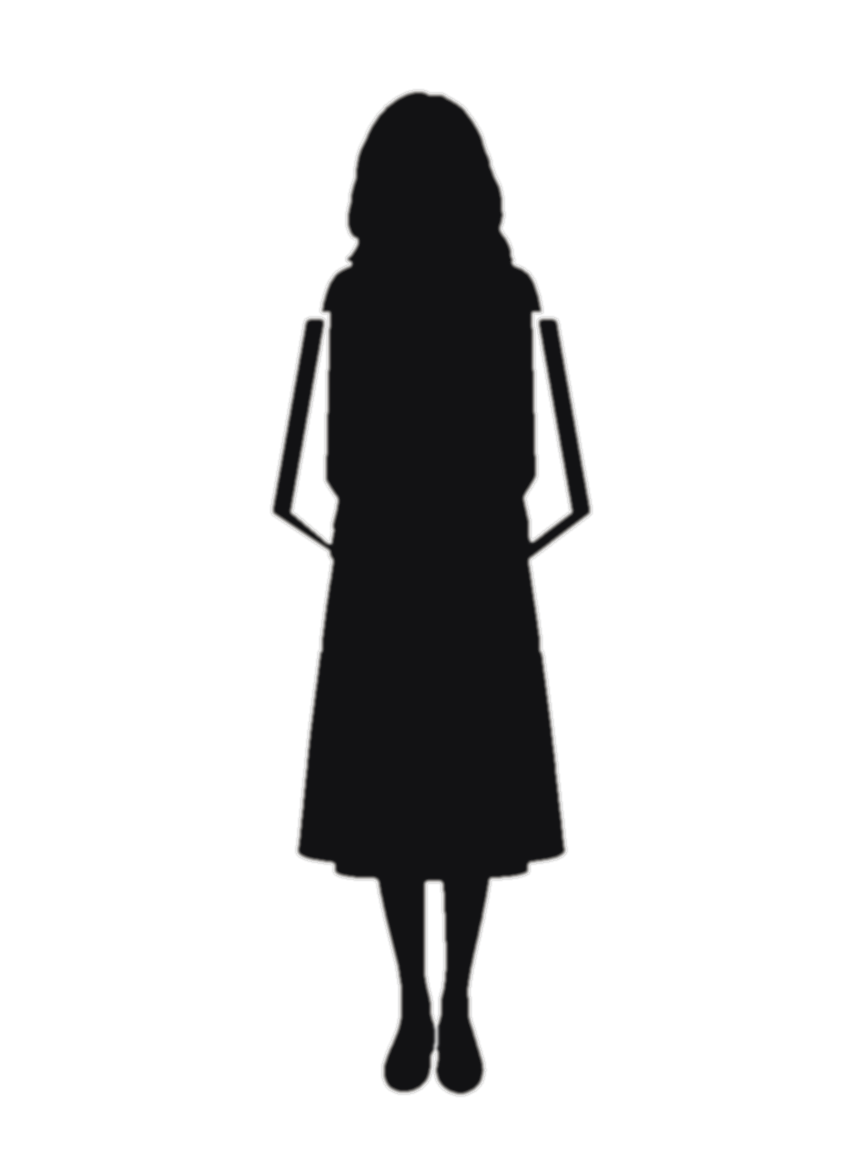
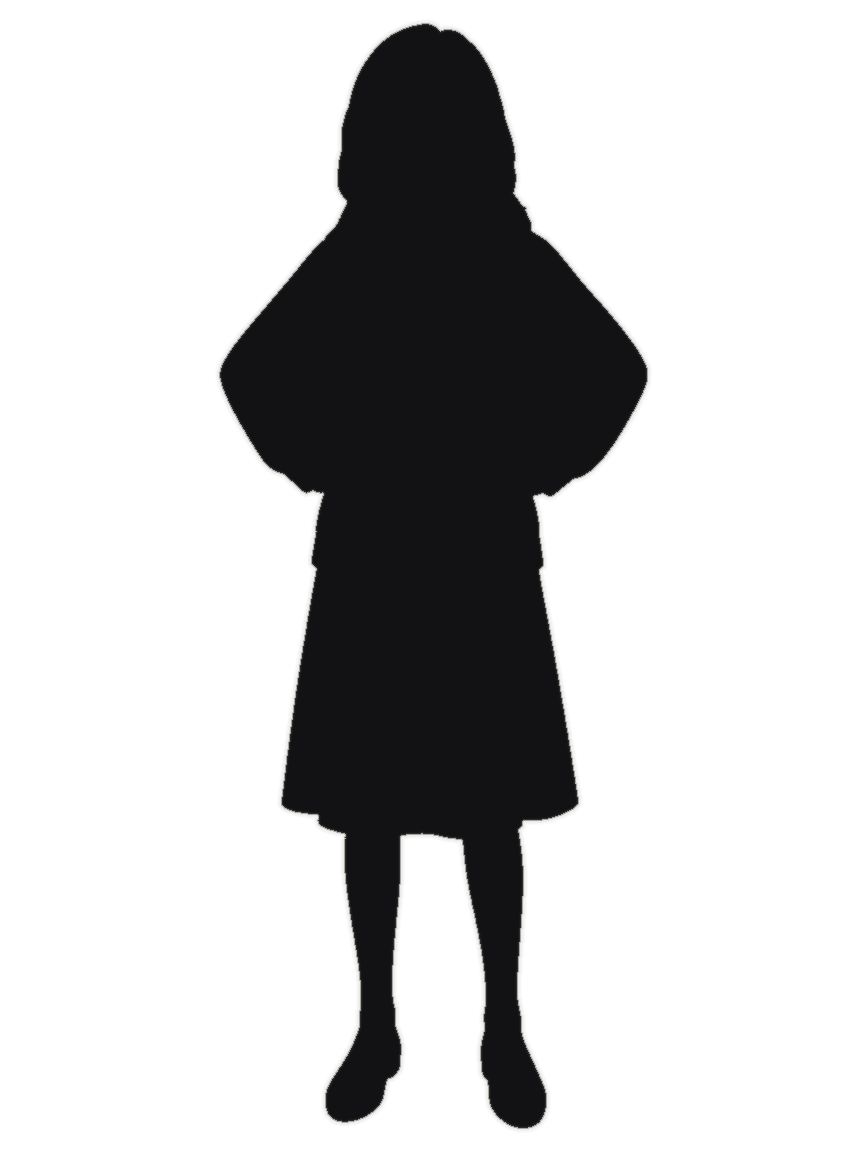
Soft: era sil shape Soft nit (#38)
Soft≠PASS · 唔 tip LIVE · 唔抬 ?v=/SAVE 仍 19w · 89–92 HOLD

PNG-only Soft tip: yip/so/luk/ngai silhouette_far Soft nit; liu/core/bust untouched.

Changed region(s): [[0.25, 0.0, 0.75, 1.0]]

diff --git a/assets/story/era_stars/MANIFEST.md b/assets/story/era_stars/MANIFEST.md
@@ -4,7 +4,7 @@
 > **Brief：** `content/ART_BRIEF_MVP_ERA_STARS_v1.md`  
 > **LOOKS：** `content/PLAN_CHAR_LOOKS_REF_v1.md` §C  
 > **Pipeline：** cursor **GenerateImage**（refs `hero_awi.jpg`＋`char_hero_bust_default.png`）→ Pillow cover-crop **864×1152** PNG  
-> **狀態：** **Soft tip 2026-11-05** — **luk leather v5b**＋**liu chow-vibe v10**＋**yip starlet-v3**＋**so jade-v4**＋**ngai kara-v5**（各 bust×3）。5 人 ×3 表情＝15 live bust。ngai kara-v2 已由 kara-v5 取代，唔再係 live。**Soft nits expr** 已換 so smile／luk smile／ngai×3（bak `bak_pre_soft_nits_expr_20261105/` 唔入本 PR）。**so energy Soft nit** 已換 default＋smile（frown 未動；bak 唔入本 PR）。**ngai age Soft nit** 已換×3（kara-v5 低馬尾＋navy zip 鎖；bak 唔入本 PR）。**silhouettes v2** 5／5 `*_silhouette_far.png` 已入 Soft（bak 唔入本 PR）。**sil Soft polish×3** 已換 yip／so／luk `*_silhouette_far.png`（liu sil 未動；ngai sil 當時未動；bak `bak_pre_silhouette_soft_polish_20261105/` 唔入本 PR）。**ngai zip sil Soft nit** 已換 `ngai_wingnaam_silhouette_far.png`（高領 zip／低馬尾／理領；bak `bak_pre_ngai_zip_sil_soft_nit_20261105/` 唔入本 PR）。**yip／liu smile↔default Soft nit** 已換 yip／liu bust default＋smile（yip frown 未動；bak `bak_pre_yip_liu_smile_default_soft_nit_20261105/` 唔入本 PR）。**liu frown Soft nit** 已換 `liu_bingxing_bust_frown.png`（舊 `11582108`；bak `bak_pre_liu_frown_soft_nit_20261105/` 唔入本 PR）。**yip energy Soft nit** 已換 `yip_manji` bust default＋smile（frown `9d7e2b8e` 未動；bak `bak_pre_yip_energy_soft_nit_20261105/` 唔入本 PR）。**so／yip frown Soft nit** 已換 `so_jiyan_bust_frown.png`（MD5 `dbe0ce32`；舊 `f0c0347e`）＋`yip_manji_bust_frown.png`（MD5 `d50275e8`；舊 `9d7e2b8e`；default／smile 未動；bak `bak_pre_so_yip_frown_soft_nit_20261105/` 唔入本 PR）。**yip wink Soft nit** 已換 `yip_manji` bust default＋smile（MD5 `fe28eb9b`／`86a75894`；舊 energy Soft tip `08384068`／`f1688fb4`；frown 當時 `d50275e8`；bak `bak_pre_yip_wink_soft_nit_20261105/` 唔入本 PR）。**sil 光邊 Soft polish** 已換 era×5 `*_silhouette_far.png`（同 core×6；淡暖 rim＋淡 halo；深心 fill `(18,18,20)`；bak `bak_pre_sil_light_edge_soft_polish_20261105/` 唔入本 PR）。**so／yip frown polish Soft nit** 已換 `so_jiyan_bust_frown.png`（MD5 `4e9d521c`；舊 Soft tip `dbe0ce32`）＋`yip_manji_bust_frown.png`（MD5 `33152c22`；舊 Soft tip `d50275e8`；default／smile 未動；bak `bak_pre_so_yip_frown_polish_soft_nit_20261105/` 唔入本 PR）。挑眉 `raise_brow` 後排、唔動。Soft≠PASS；**唔 tip LIVE**；**1989–1992 HOLD**；`?v=` 仍 `19w`；SAVE `starVolunteer_map_v19w`
+> **狀態：** **Soft tip 2026-11-05** — **luk leather v5b**＋**liu chow-vibe v10**＋**yip starlet-v3**＋**so jade-v4**＋**ngai kara-v5**（各 bust×3）。5 人 ×3 表情＝15 live bust。ngai kara-v2 已由 kara-v5 取代，唔再係 live。**Soft nits expr** 已換 so smile／luk smile／ngai×3（bak `bak_pre_soft_nits_expr_20261105/` 唔入本 PR）。**so energy Soft nit** 已換 default＋smile（frown 未動；bak 唔入本 PR）。**ngai age Soft nit** 已換×3（kara-v5 低馬尾＋navy zip 鎖；bak 唔入本 PR）。**silhouettes v2** 5／5 `*_silhouette_far.png` 已入 Soft（bak 唔入本 PR）。**sil Soft polish×3** 已換 yip／so／luk `*_silhouette_far.png`（liu sil 未動；ngai sil 當時未動；bak `bak_pre_silhouette_soft_polish_20261105/` 唔入本 PR）。**ngai zip sil Soft nit** 已換 `ngai_wingnaam_silhouette_far.png`（高領 zip／低馬尾／理領；bak `bak_pre_ngai_zip_sil_soft_nit_20261105/` 唔入本 PR）。**yip／liu smile↔default Soft nit** 已換 yip／liu bust default＋smile（yip frown 未動；bak `bak_pre_yip_liu_smile_default_soft_nit_20261105/` 唔入本 PR）。**liu frown Soft nit** 已換 `liu_bingxing_bust_frown.png`（舊 `11582108`；bak `bak_pre_liu_frown_soft_nit_20261105/` 唔入本 PR）。**yip energy Soft nit** 已換 `yip_manji` bust default＋smile（frown `9d7e2b8e` 未動；bak `bak_pre_yip_energy_soft_nit_20261105/` 唔入本 PR）。**so／yip frown Soft nit** 已換 `so_jiyan_bust_frown.png`（MD5 `dbe0ce32`；舊 `f0c0347e`）＋`yip_manji_bust_frown.png`（MD5 `d50275e8`；舊 `9d7e2b8e`；default／smile 未動；bak `bak_pre_so_yip_frown_soft_nit_20261105/` 唔入本 PR）。**yip wink Soft nit** 已換 `yip_manji` bust default＋smile（MD5 `fe28eb9b`／`86a75894`；舊 energy Soft tip `08384068`／`f1688fb4`；frown 當時 `d50275e8`；bak `bak_pre_yip_wink_soft_nit_20261105/` 唔入本 PR）。**sil 光邊 Soft polish** 已換 era×5 `*_silhouette_far.png`（同 core×6；淡暖 rim＋淡 halo；深心 fill `(18,18,20)`；bak `bak_pre_sil_light_edge_soft_polish_20261105/` 唔入本 PR）。**so／yip frown polish Soft nit** 已換 `so_jiyan_bust_frown.png`（MD5 `4e9d521c`；舊 Soft tip `dbe0ce32`）＋`yip_manji_bust_frown.png`（MD5 `33152c22`；舊 Soft tip `d50275e8`；default／smile 未動；bak `bak_pre_so_yip_frown_polish_soft_nit_20261105/` 唔入本 PR）。**sil shape Soft nit** 已換 yip／so／luk／ngai `*_silhouette_far.png`（MD5 `ba8ad339`／`2602dda9`／`022489bc`／`c0f0d41e`；liu sil `4bbf6e7f` 未動；core／bust 未動；bak `bak_pre_sil_shape_soft_nit_20261105/` 唔入本 PR）。挑眉 `raise_brow` 後排、唔動。Soft≠PASS；**唔 tip LIVE**；**1989–1992 HOLD**；`?v=` 仍 `19w`；SAVE `starVolunteer_map_v19w`
 
 ## Style-lock MD5（installed live）
 
@@ -30,11 +30,11 @@
 
 | id | display | files | dims | notes |
 |---|---|---|---|---|
-| `luk_baakyin` | 陸柏言 | `*_bust_{default,smile,frown}.png` + `*_silhouette_far.png`（**sil Soft polish**＋**光邊**） | 864×1152 | **leather v5b**＋**smile Soft nit 2026-11-05**（露齒酒窩）＋**frown Soft nit 2026-11-05**（深 V 皺眉＋下撇嘴；MD5 `d379b322`）。default `f0bc02d8`／smile `202a6200` 唔動。sil Soft polish（quiff↑）＋**光邊 Soft polish**（MD5 `45d03628`；prior `194f29f2`）。bak `bak_pre_luk_leather_v5/`＋`bak_pre_soft_nits_expr_20261105/`＋`bak_pre_luk_frown_soft_nit_20261105/` 留盤，唔入本 PR |
-| `yip_manji` | 葉敏芝 | bust×3 + sil **Soft polish**＋**光邊** | 864×1152 | **starlet-v3 2026-11-05**：露肩 dusty-rose；邱淑貞／張敏氣質（禁抄臉）；GenerateImage。**smile↔default Soft nit 2026-11-05**（當時 default `b338280b`／smile `6e7b1a2b`）。**energy Soft nit 2026-11-05**（當時 default 嬌俏眨眼 MD5 `08384068`／smile 露齒眼閃↑ MD5 `f1688fb4`）。**frown Soft nit 2026-11-05**（雙目睜下撇／咬唇；當時 MD5 `d50275e8`；舊 `9d7e2b8e`）。**wink Soft nit 2026-11-05**（default 雙目睜＋閉唇微 smirk 收斂強 wink MD5 `fe28eb9b`／smile 露齒暖笑 MD5 `86a75894`；舊 energy `08384068`／`f1688fb4`）。**frown polish Soft nit 2026-11-05**（雙目睜＋咬唇嬌俏敗興↑；MD5 `33152c22`；舊 Soft tip `d50275e8`；default／smile wink Soft tip `fe28eb9b`／`86a75894` 未動）。sil Soft polish（露肩／bare-arm）＋**光邊 Soft polish**（MD5 `b29c5efc`；prior `41ef7a1f`）。bak `bak_pre_yip_starlet_v3/`＋`bak_pre_yip_liu_smile_default_soft_nit_20261105/`＋`bak_pre_yip_energy_soft_nit_20261105/`＋`bak_pre_so_yip_frown_soft_nit_20261105/`＋`bak_pre_yip_wink_soft_nit_20261105/`＋`bak_pre_so_yip_frown_polish_soft_nit_20261105/` 留盤，唔入本 PR |
-| `so_jiyan` | 蘇芷茵 | bust×3 + `*_silhouette_far.png`（**sil Soft polish**＋**光邊**） | 864×1152 | **jade-v4**＋**energy Soft nit 2026-11-05**（default＋smile 更有精神／眼閃；MD5 `2cc1a570`／`e57ab12a`）。**frown Soft nit 2026-11-05**（夾眉下撇不高興對開 energy default／smile；當時 MD5 `dbe0ce32`；舊 `f0c0347e`）。**frown polish Soft nit 2026-11-05**（夾眉下撇保留、眉薄／怒感收約 5–10%；MD5 `4e9d521c`；舊 Soft tip `dbe0ce32`；default／smile energy Soft tip `2cc1a570`／`e57ab12a` 未動）。sil Soft polish（肘外＋手前）＋**光邊 Soft polish**（MD5 `30fec574`；prior `720e3473`）。bak `bak_pre_so_jade_v4/`＋`bak_pre_soft_nits_expr_20261105/`＋`bak_pre_so_energy_soft_nit_20261105/`＋`bak_pre_so_yip_frown_soft_nit_20261105/`＋`bak_pre_so_yip_frown_polish_soft_nit_20261105/` 留盤，唔入本 PR |
-| `liu_bingxing` | 廖炳星 | bust×3 + sil **v2**＋**光邊** | 864×1152 | **chow-vibe v10 2026-11-05**：花恤衫正面；周星馳氣質（禁抄臉）；GenerateImage。**smile↔default Soft nit 2026-11-05**（default 閉唇微翹 MD5 `f39379d5`／smile 露齒壞笑 MD5 `3b3c7fb4`）。**frown Soft nit 2026-11-05**（吃癟下撇＋夾眉；MD5 `82edc37f`；舊 `11582108`）。sil **光邊 Soft polish**（prior v2；MD5 `4bbf6e7f`；v2 `1238929c`）。bak `bak_pre_liu_chow_v10/`＋`bak_pre_yip_liu_smile_default_soft_nit_20261105/`＋`bak_pre_liu_frown_soft_nit_20261105/` 留盤，唔入本 PR |
-| `ngai_wingnaam` | 魏詠男 | bust×3 + sil **zip Soft nit**＋**光邊** | 864×1152 | **kara-v5**＋**age Soft nit 2026-11-05×3**（晚三十讀齡↑；低馬尾＋navy zip 統一；MD5 `09f79211`／`8f1abdaf`／`5df4f5fa`）。kara-v2 唔再係 live。sil zip Soft nit（高領 zip／低馬尾／理領；v2 `31555755`）＋**光邊 Soft polish**（MD5 `79f2e144`；zip tip `899c7f7d`）。bak `bak_pre_ngai_kara_v5/`＋`bak_pre_soft_nits_expr_20261105/`＋`bak_pre_ngai_age_soft_nit_20261105/`＋`bak_pre_ngai_zip_sil_soft_nit_20261105/` 留盤，唔入本 PR |
+| `luk_baakyin` | 陸柏言 | `*_bust_{default,smile,frown}.png` + `*_silhouette_far.png`（**sil Soft polish**＋**光邊**＋**shape**） | 864×1152 | **leather v5b**＋**smile Soft nit 2026-11-05**（露齒酒窩）＋**frown Soft nit 2026-11-05**（深 V 皺眉＋下撇嘴；MD5 `d379b322`）。default `f0bc02d8`／smile `202a6200` 唔動。sil Soft polish（quiff↑）＋**光邊 Soft polish**（當時 MD5 `45d03628`；prior `194f29f2`）＋**sil shape Soft nit**（quiff↑；MD5 `022489bc`；prior 光邊 `45d03628`）。bak `bak_pre_luk_leather_v5/`＋`bak_pre_soft_nits_expr_20261105/`＋`bak_pre_luk_frown_soft_nit_20261105/`＋`bak_pre_sil_shape_soft_nit_20261105/` 留盤，唔入本 PR |
+| `yip_manji` | 葉敏芝 | bust×3 + sil **Soft polish**＋**光邊**＋**shape** | 864×1152 | **starlet-v3 2026-11-05**：露肩 dusty-rose；邱淑貞／張敏氣質（禁抄臉）；GenerateImage。**smile↔default Soft nit 2026-11-05**（當時 default `b338280b`／smile `6e7b1a2b`）。**energy Soft nit 2026-11-05**（當時 default 嬌俏眨眼 MD5 `08384068`／smile 露齒眼閃↑ MD5 `f1688fb4`）。**frown Soft nit 2026-11-05**（雙目睜下撇／咬唇；當時 MD5 `d50275e8`；舊 `9d7e2b8e`）。**wink Soft nit 2026-11-05**（default 雙目睜＋閉唇微 smirk 收斂強 wink MD5 `fe28eb9b`／smile 露齒暖笑 MD5 `86a75894`；舊 energy `08384068`／`f1688fb4`）。**frown polish Soft nit 2026-11-05**（雙目睜＋咬唇嬌俏敗興↑；MD5 `33152c22`；舊 Soft tip `d50275e8`；default／smile wink Soft tip `fe28eb9b`／`86a75894` 未動）。sil Soft polish（露肩／bare-arm）＋**光邊 Soft polish**（當時 MD5 `b29c5efc`；prior `41ef7a1f`）＋**sil shape Soft nit**（肩凹清；MD5 `ba8ad339`；prior 光邊 `b29c5efc`）。bak `bak_pre_yip_starlet_v3/`＋`bak_pre_yip_liu_smile_default_soft_nit_20261105/`＋`bak_pre_yip_energy_soft_nit_20261105/`＋`bak_pre_so_yip_frown_soft_nit_20261105/`＋`bak_pre_yip_wink_soft_nit_20261105/`＋`bak_pre_so_yip_frown_polish_soft_nit_20261105/`＋`bak_pre_sil_shape_soft_nit_20261105/` 留盤，唔入本 PR |
+| `so_jiyan` | 蘇芷茵 | bust×3 + `*_silhouette_far.png`（**sil Soft polish**＋**光邊**＋**shape**） | 864×1152 | **jade-v4**＋**energy Soft nit 2026-11-05**（default＋smile 更有精神／眼閃；MD5 `2cc1a570`／`e57ab12a`）。**frown Soft nit 2026-11-05**（夾眉下撇不高興對開 energy default／smile；當時 MD5 `dbe0ce32`；舊 `f0c0347e`）。**frown polish Soft nit 2026-11-05**（夾眉下撇保留、眉薄／怒感收約 5–10%；MD5 `4e9d521c`；舊 Soft tip `dbe0ce32`；default／smile energy Soft tip `2cc1a570`／`e57ab12a` 未動）。sil Soft polish（肘外＋手前）＋**光邊 Soft polish**（當時 MD5 `30fec574`；prior `720e3473`）＋**sil shape Soft nit**（叉腰手前可讀；MD5 `2602dda9`；prior 光邊 `30fec574`）。bak `bak_pre_so_jade_v4/`＋`bak_pre_soft_nits_expr_20261105/`＋`bak_pre_so_energy_soft_nit_20261105/`＋`bak_pre_so_yip_frown_soft_nit_20261105/`＋`bak_pre_so_yip_frown_polish_soft_nit_20261105/`＋`bak_pre_sil_shape_soft_nit_20261105/` 留盤，唔入本 PR |
+| `liu_bingxing` | 廖炳星 | bust×3 + sil **v2**＋**光邊** | 864×1152 | **chow-vibe v10 2026-11-05**：花恤衫正面；周星馳氣質（禁抄臉）；GenerateImage。**smile↔default Soft nit 2026-11-05**（default 閉唇微翹 MD5 `f39379d5`／smile 露齒壞笑 MD5 `3b3c7fb4`）。**frown Soft nit 2026-11-05**（吃癟下撇＋夾眉；MD5 `82edc37f`；舊 `11582108`）。sil **光邊 Soft polish**（prior v2；MD5 `4bbf6e7f`；v2 `1238929c`；本輪 sil shape 未動）。bak `bak_pre_liu_chow_v10/`＋`bak_pre_yip_liu_smile_default_soft_nit_20261105/`＋`bak_pre_liu_frown_soft_nit_20261105/` 留盤，唔入本 PR |
+| `ngai_wingnaam` | 魏詠男 | bust×3 + sil **zip Soft nit**＋**光邊**＋**shape** | 864×1152 | **kara-v5**＋**age Soft nit 2026-11-05×3**（晚三十讀齡↑；低馬尾＋navy zip 統一；MD5 `09f79211`／`8f1abdaf`／`5df4f5fa`）。kara-v2 唔再係 live。sil zip Soft nit（高領 zip／低馬尾／理領；v2 `31555755`）＋**光邊 Soft polish**（當時 MD5 `79f2e144`；zip tip `899c7f7d`）＋**sil shape Soft nit**（高領 zip；MD5 `c0f0d41e`；prior 光邊 `79f2e144`）。bak `bak_pre_ngai_kara_v5/`＋`bak_pre_soft_nits_expr_20261105/`＋`bak_pre_ngai_age_soft_nit_20261105/`＋`bak_pre_ngai_zip_sil_soft_nit_20261105/`＋`bak_pre_sil_shape_soft_nit_20261105/` 留盤，唔入本 PR |
 
 **Bust 底：** cream studio ~`#F2EBD8`（跟 C1／阿偉）。  
 **本 Soft tip：** 15 live bust PNG 仍在（其中 so smile、luk smile、ngai default／smile／frown 換 Soft nits expr）；另加 5 live `*_silhouette_far.png`。preferFile 仍未加 era_stars bust path。Soft gate（`BehaviorGate.gatePath()==="soft"`）遠觀 modal 喺 distanceLook 之上顯示 `{starId}_silhouette_far.png`；Soft off／LIVE 仍係文字＋音（Phase3 B）。蘇芷茵無地圖遠觀釘（主表仍 4 人）；Soft `__phase3.sight("so_jiyan")` 先開佢張剪影。  
@@ -47,13 +47,15 @@
 
 **Silhouette 光邊 Soft polish（2026-11-05 Asia/Hong_Kong）：** 只換 live era×5 `*_silhouette_far.png`（同 core×6）。Pillow／scipy EDT 淡場景光邊：深心 fill exact `(18,18,20)` 保留；外緣 soft warm rim＋淡 halo；無五官；wardrobe shape lock。遠觀 wire 仍係 Soft gate `eraSilhouetteFarSrc` → `assets/story/era_stars/{id}_silhouette_far.png?v=19w`（本 PR 唔改 `index.html`、唔抬 `?v=`）。bak `bak_pre_sil_light_edge_soft_polish_20261105/`、compare／QA md／REPORT **唔入**本 PR。`?v=` 仍 `19w`。SAVE `starVolunteer_map_v19w`。
 
+**Silhouette shape Soft nit（2026-11-05 Asia/Hong_Kong）：** 只換 live `yip_manji`／`so_jiyan`／`luk_baakyin`／`ngai_wingnaam` `*_silhouette_far.png`（記帳 shape：yip 肩凹清／so 叉腰手前可讀／luk quiff↑／ngai 高領 zip）。`liu_bingxing` silhouette_far **未動**（MD5 `4bbf6e7f`）。core sil／bust×15 **未動**。GenerateImage 彩色全身→Pillow RGBA 近黑 `(18,18,20)` 無五官＋tip#32 soft warm rim／halo 重套。遠觀 wire 仍係 Soft gate `eraSilhouetteFarSrc` → `assets/story/era_stars/{id}_silhouette_far.png?v=19w`（本 PR 唔改 `index.html`、唔抬 `?v=`、唔做 C cream-rim big redo）。bak `bak_pre_sil_shape_soft_nit_20261105/`、qa **唔入**本 PR。`?v=` 仍 `19w`。SAVE `starVolunteer_map_v19w`。
+
 | file | MD5 | note |
 |---|---|---|
-| `luk_baakyin_silhouette_far.png` | `45d036287ed704107da6679bc0d5c4c4` | 光邊 Soft polish（prior Soft polish quiff `194f29f2`；v2 `03fdc270`） |
-| `liu_bingxing_silhouette_far.png` | `4bbf6e7fc07f9a533813da5a33473213` | 光邊 Soft polish（prior v2 `1238929c`） |
-| `ngai_wingnaam_silhouette_far.png` | `79f2e1444cac4da870551ba9630d9340` | 光邊 Soft polish（prior zip Soft nit `899c7f7d`；v2 `31555755`） |
-| `yip_manji_silhouette_far.png` | `b29c5efcabca38e8c28e5b5fbc889822` | 光邊 Soft polish（prior Soft polish 露肩 `41ef7a1f`；v2 `b606c5a1`） |
-| `so_jiyan_silhouette_far.png` | `30fec574200439d85e223c4134ab2722` | 光邊 Soft polish（prior Soft polish 手前 `720e3473`；v2 `e37e095a`） |
+| `luk_baakyin_silhouette_far.png` | `022489bce23edb5aab9a7182f90e74ae` | sil shape Soft nit（quiff↑；prior 光邊 `45d03628`；v2 `03fdc270`） |
+| `liu_bingxing_silhouette_far.png` | `4bbf6e7fc07f9a533813da5a33473213` | 光邊 Soft polish（prior v2 `1238929c`；本輪 sil shape 未動） |
+| `ngai_wingnaam_silhouette_far.png` | `c0f0d41e61e89e8b7dfdb322948926cf` | sil shape Soft nit（高領 zip；prior 光邊 `79f2e144`；zip tip `899c7f7d`；v2 `31555755`） |
+| `yip_manji_silhouette_far.png` | `ba8ad339de64f38ba8510ff5a0d19d1a` | sil shape Soft nit（肩凹清；prior 光邊 `b29c5efc`；Soft polish 露肩 `41ef7a1f`；v2 `b606c5a1`） |
+| `so_jiyan_silhouette_far.png` | `2602dda9c2947bf8e4e7b2e73b938bbd` | sil shape Soft nit（叉腰手前可讀；prior 光邊 `30fec574`；Soft polish 手前 `720e3473`；v2 `e37e095a`） |
 
 ## Soft nits（唔擋；Soft≠PASS）
 
@@ -71,11 +73,12 @@
 12. **sil（唔擋）** 全套無淡場景光邊（純透明底近黑形；同 v2；yip 肩亦無光邊）  
 13. **sil v2（已由 ngai zip sil Soft nit 接）** `ngai_wingnaam` 高領 zip／低馬尾／理領（MD5 `899c7f7d`；v2 `31555755`）。`liu_bingxing` sil 未動
 14. **ngai zip sil Soft nit（唔擋）** 遠距可讀成連帽；理領空隙弱；無光邊（光邊 backlog 由下一項接；連帽／理領空隙未本輪處理）
-15. **sil 光邊 Soft polish 2026-11-05 已換 era×5**（淡暖 rim＋淡 halo；MD5 見上表）。Soft nits（唔擋）：cream／亮底 rim 近隱形；rim 可再漫射；halo 可再淡。prior sil shape nits 未本輪處理：yip 肩凹；so 手前遠距歧義；luk 理領遠距弱；ngai zip vs 連帽歧義
+15. **sil 光邊 Soft polish 2026-11-05 已換 era×5**（淡暖 rim＋淡 halo）。Soft nits（唔擋）：cream／亮底 rim 近隱形；rim 可再漫射；halo 可再淡。prior sil shape nits 當時未本輪處理（由下一項接）  
+16. **sil shape Soft nit 2026-11-05 已換** yip／so／luk／ngai `*_silhouette_far.png`（MD5 `ba8ad339`／`2602dda9`／`022489bc`／`c0f0d41e`；liu `4bbf6e7f`／core／bust 未動；tip#32 soft warm rim／halo 重套）。Soft nits（唔擋）：luk／ngai 理領空隙；ngai 連帽遠距。QC：統籌 Style PASS with nits
 
 ## Gates
 
-Soft≠PASS｜唔 tip LIVE｜唔 wake iOS｜89–92 HOLD｜silhouettes v2 Soft tip（遠觀只限 Soft gate）｜sil Soft polish×3（yip／so／luk）｜ngai zip sil Soft nit（liu／yip／so／luk sil 未動）｜expr nits Soft tip｜so energy Soft nit（default＋smile；frown 未動）｜ngai age Soft nit×3｜yip／liu smile↔default Soft nit（default＋smile；yip frown 未動）｜liu frown Soft nit｜yip energy Soft nit（default＋smile；frown 未動）｜so／yip frown Soft nit（default／smile 未動）｜yip wink Soft nit（default＋smile `fe28eb9b`／`86a75894`；本 PR 唔覆寫）｜so／yip frown polish Soft nit（default／smile 未動）｜sil 光邊 Soft polish（era×5；同 core×6）｜raise_brow 後排｜`?v=` 仍 `19w`｜SAVE `starVolunteer_map_v19w`
+Soft≠PASS｜唔 tip LIVE｜唔 wake iOS｜89–92 HOLD｜silhouettes v2 Soft tip（遠觀只限 Soft gate）｜sil Soft polish×3（yip／so／luk）｜ngai zip sil Soft nit（liu／yip／so／luk sil 未動）｜expr nits Soft tip｜so energy Soft nit（default＋smile；frown 未動）｜ngai age Soft nit×3｜yip／liu smile↔default Soft nit（default＋smile；yip frown 未動）｜liu frown Soft nit｜yip energy Soft nit（default＋smile；frown 未動）｜so／yip frown Soft nit（default／smile 未動）｜yip wink Soft nit（default＋smile `fe28eb9b`／`86a75894`；本 PR 唔覆寫）｜so／yip frown polish Soft nit（default／smile 未動）｜sil 光邊 Soft polish（era×5；同 core×6）｜sil shape Soft nit（yip／so／luk／ngai；liu／core／bust 未動）｜raise_brow 後排｜`?v=` 仍 `19w`｜SAVE `starVolunteer_map_v19w`
 
 ## Pack
 
@@ -118,6 +121,8 @@ Soft≠PASS｜唔 tip LIVE｜唔 wake iOS｜89–92 HOLD｜silhouettes v2 Soft t
 `/workspace/star-volunteer-web-yip-wink-soft-nit.tar.gz`（只換 live `yip_manji_bust_default.png`＋`yip_manji_bust_smile.png`；`bak_pre_yip_wink_soft_nit_20261105/`、`qa-yip-wink-soft-nit/` 唔入本 PR）
 
 `/workspace/star-volunteer-web-so-yip-frown-polish-soft-nit.tar.gz`（只換 live `so_jiyan_bust_frown.png`＋`yip_manji_bust_frown.png`；`bak_pre_so_yip_frown_polish_soft_nit_20261105/`、`qa-so-yip-frown-polish-soft-nit/` 唔入本 PR）
+
+`/workspace/star-volunteer-web-sil-shape-soft-nit.tar.gz`（只換 live yip／so／luk／ngai `*_silhouette_far.png`；`bak_pre_sil_shape_soft_nit_20261105/`、qa 唔入本 PR；liu／core／bust 未動）
 
 ## Related
 
@@ -231,3 +236,13 @@ Soft≠PASS｜唔 tip LIVE｜唔 wake iOS｜89–92 HOLD｜silhouettes v2 Soft t
 - Soft nits（唔擋 Soft tip）：線密度仍偏 modern polish（家族後排）；so 怒感若 QC 覺得過收／過軟可回微加夾眉；yip 咬唇角度／牙齒露出量可再微調
 - QC：統籌 Style PASS with nits。Soft≠PASS｜唔 tip LIVE｜唔抬 ?v=｜89–92 HOLD
 - Pack：`/workspace/star-volunteer-web-so-yip-frown-polish-soft-nit.tar.gz`（live-only 入本 PR；bak／qa 唔入）
+
+## sil shape Soft nit 2026-11-05 (Asia/Hong_Kong)
+- 只換 live：`yip_manji_silhouette_far.png` MD5 `ba8ad339de64f38ba8510ff5a0d19d1a`；`so_jiyan_silhouette_far.png` MD5 `2602dda9c2947bf8e4e7b2e73b938bbd`；`luk_baakyin_silhouette_far.png` MD5 `022489bce23edb5aab9a7182f90e74ae`；`ngai_wingnaam_silhouette_far.png` MD5 `c0f0d41e61e89e8b7dfdb322948926cf`（864×1152 RGBA）
+- 唔動：`liu_bingxing_silhouette_far.png` `4bbf6e7fc07f9a533813da5a33473213`。core×6 sil、bust×15、`index.html`、gigs、`?v=`、SAVE `starVolunteer_map_v19w`、`liveWeekGateStillActive` 未動。本 PR 唔做 C cream-rim big redo。唔併其他 Soft tip PR
+- 對開光邊 Soft tip：yip `b29c5efcabca38e8c28e5b5fbc889822`；so `30fec574200439d85e223c4134ab2722`；luk `45d036287ed704107da6679bc0d5c4c4`；ngai `79f2e1444cac4da870551ba9630d9340`。bak `bak_pre_sil_shape_soft_nit_20261105/` 留盤、唔入本 PR
+- 目標：yip 肩凹清；so 叉腰手前可讀；luk quiff↑；ngai 高領 zip。近黑 fill `(18,18,20)`、無五官；tip#32 soft warm rim／halo 重套
+- Soft nits（唔擋 Soft tip）：luk／ngai 理領空隙；ngai 連帽遠距
+- QC：統籌 Style PASS with nits。Soft≠PASS｜唔 tip LIVE｜唔抬 ?v=｜89–92 HOLD
+- 遠觀 wire 仍係 `eraSilhouetteFarSrc` → `assets/story/era_stars/{id}_silhouette_far.png?v=19w`（本 PR 唔改碼）
+- Pack：`/workspace/star-volunteer-web-sil-shape-soft-nit.tar.gz`（live-only 入本 PR；bak／qa 唔入）

diff --git a/assets/STYLE_CANON.md b/assets/STYLE_CANON.md
@@ -73,6 +73,8 @@
 
 - 2026-11-05 so／yip frown polish Soft nit：`so_jiyan_bust_frown`＋`yip_manji_bust_frown`（夾眉下撇保留、眉薄／怒感收約 5–10%；雙目睜＋咬唇嬌俏敗興↑；jade-v4／starlet-v3 wardrobe／cel-shade lock；default／smile 未動；live MD5 `4e9d521c`／`33152c22`；舊 Soft tip `dbe0ce32`／`d50275e8`；yip default／smile wink `fe28eb9b`／`86a75894` 未動）；GenerateImage；bak `era_stars/bak_pre_so_yip_frown_polish_soft_nit_20261105/` 留盤、唔入本 PR；pack `/workspace/star-volunteer-web-so-yip-frown-polish-soft-nit.tar.gz`；Soft≠PASS；唔 tip LIVE；`?v=` 仍 `19w`；89–92 HOLD。
 
+- 2026-11-05 sil shape Soft nit：`{yip_manji,so_jiyan,luk_baakyin,ngai_wingnaam}_silhouette_far.png` redo shape（yip 肩凹清／so 叉腰手前可讀／luk quiff↑／ngai 高領 zip；live MD5 `ba8ad339`／`2602dda9`／`022489bc`／`c0f0d41e`；prior 光邊 `b29c5efc`／`30fec574`／`45d03628`／`79f2e144`）；`liu` `4bbf6e7f`／core／bust 未動；GenerateImage 彩色全身→Pillow RGBA 近黑 `(18,18,20)`＋tip#32 soft warm rim／halo；唔做 C cream-rim big redo；bak `era_stars/bak_pre_sil_shape_soft_nit_20261105/` 留盤、唔入本 PR；pack `/workspace/star-volunteer-web-sil-shape-soft-nit.tar.gz`；Soft nits（唔擋）：luk／ngai 理領空隙；ngai 連帽遠距；QC：統籌 Style PASS with nits；Soft≠PASS；唔 tip LIVE；唔抬 `?v=`；89–92 HOLD。
+
 ## raise_brow Soft nit（2026-11-05 Asia/Hong_Kong）
 
 - 已換：`char_hero_bust_raise_brow.png` MD5 `59dab337`；`char_cheung_bust_raise_brow.png` MD5 `8a8d01a9`（c1／story／dialog／npc 四路同 MD5）
@@ -199,3 +201,13 @@
 - Soft nits（唔擋 Soft tip）：線密度仍偏 modern polish；so 怒感若過收／過軟可回微加夾眉；yip 咬唇角度／牙齒露出量可再微調
 - QC：統籌 Style PASS with nits。Soft≠PASS；唔 tip LIVE；`?v=` 仍 `19w`；SAVE `starVolunteer_map_v19w`；89–92 HOLD
 - Pack：`/workspace/star-volunteer-web-so-yip-frown-polish-soft-nit.tar.gz`（live-only 入本 PR；bak／qa 唔入）
+
+## sil shape Soft nit（2026-11-05 Asia/Hong_Kong）
+
+- 只換：`story/era_stars/yip_manji_silhouette_far.png` MD5 `ba8ad339`；`so_jiyan_silhouette_far.png` MD5 `2602dda9`；`luk_baakyin_silhouette_far.png` MD5 `022489bc`；`ngai_wingnaam_silhouette_far.png` MD5 `c0f0d41e`（864×1152 RGBA）
+- 唔動：`liu_bingxing_silhouette_far.png` `4bbf6e7f`。core×6 sil、bust×15、`index.html`、gigs 未動。遠觀 wire 仍 `eraSilhouetteFarSrc` → `?v=19w`（本輪唔改碼、唔抬 `?v=`）。唔做 C cream-rim big redo
+- 對開光邊 Soft tip：yip `b29c5efc`／so `30fec574`／luk `45d03628`／ngai `79f2e144`。近黑 fill `(18,18,20)`、無五官；tip#32 soft warm rim／halo 重套。bak `era_stars/bak_pre_sil_shape_soft_nit_20261105/` 留盤、唔入本 PR
+- 目標：yip 肩凹清；so 叉腰手前可讀；luk quiff↑；ngai 高領 zip
+- Soft nits（唔擋 Soft tip）：luk／ngai 理領空隙；ngai 連帽遠距
+- QC：統籌 Style PASS with nits。Soft≠PASS；唔 tip LIVE；`?v=` 仍 `19w`；SAVE `starVolunteer_map_v19w`；89–92 HOLD
+- Pack：`/workspace/star-volunteer-web-sil-shape-soft-nit.tar.gz`（live-only 入本 PR；bak／qa 唔入）
